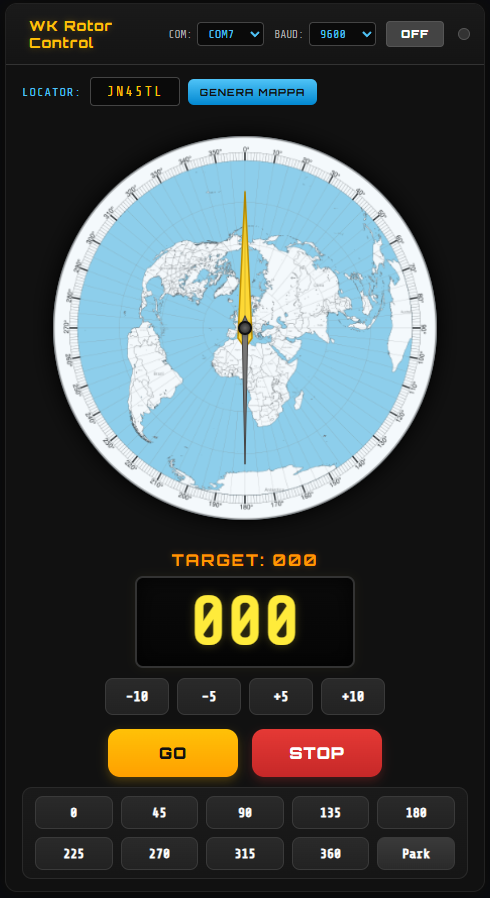
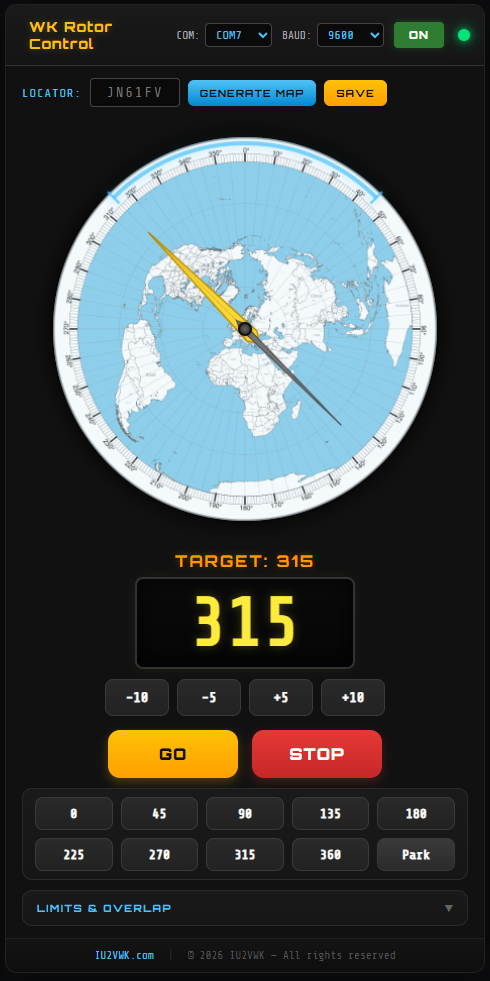
restore wmrotorcontrol.png as main screenshot; overlap.png in release notes

Changed region(s): [[0.0612, 0.0, 0.9796, 0.9978], [0.7041, 0.5924, 0.7347, 0.6548], [0.2755, 0.5924, 0.3061, 0.6548]]

diff --git a/landing/index.html b/landing/index.html
@@ -16,7 +16,7 @@
 <meta property="og:description" content="Free desktop app to control Yaesu G-600 antenna rotors. Azimuth compass, NS6T map generator, GS-232 serial. Windows + macOS.">
 <meta property="og:type" content="website">
 <meta property="og:url" content="https://iu2vwk-ita.github.io/WK-Rotor-Control/">
-<meta property="og:image" content="https://iu2vwk-ita.github.io/WK-Rotor-Control/overlap.png">
+<meta property="og:image" content="https://iu2vwk-ita.github.io/WK-Rotor-Control/wmrotorcontrol.png">
 <meta property="og:image:width" content="1200">
 <meta property="og:image:height" content="630">
 <meta property="og:site_name" content="WK Rotor Control">
@@ -25,7 +25,7 @@
 <meta name="twitter:card" content="summary_large_image">
 <meta name="twitter:title" content="WK Rotor Control — Free Antenna Rotor Controller">
 <meta name="twitter:description" content="Free desktop app for Yaesu G-600 rotor control. Azimuth compass, NS6T maps, GS-232. Windows + macOS.">
-<meta name="twitter:image" content="https://iu2vwk-ita.github.io/WK-Rotor-Control/overlap.png">
+<meta name="twitter:image" content="https://iu2vwk-ita.github.io/WK-Rotor-Control/wmrotorcontrol.png">
 
 <!-- Theme -->
 <meta name="theme-color" content="#0a0c0f">
@@ -521,10 +521,10 @@ a:hover{color:var(--amber)}
   <div class="container">
     <img
       class="hero-map"
-      src="overlap.png"
-      alt="WK Rotor Control showing overlap indicator and sector limits on the compass"
+      src="wmrotorcontrol.png"
+      alt="WK Rotor Control azimuthal map interface with compass overlay"
       width="380"
-      height="782"
+      height="380"
       loading="eager"
       fetchpriority="high"
     >

diff --git a/README.md b/README.md
@@ -5,7 +5,7 @@ Universal antenna rotor controller for **Yaesu G-600** and compatible rotors (GS
 [![Build](https://github.com/iu2vwk-ita/WK-Rotor-Control/actions/workflows/build.yml/badge.svg)](https://github.com/iu2vwk-ita/WK-Rotor-Control/actions/workflows/build.yml)
 [![Release](https://img.shields.io/github/v/release/iu2vwk-ita/WK-Rotor-Control?color=ffb300)](https://github.com/iu2vwk-ita/WK-Rotor-Control/releases/latest)
 
-![screenshot](landing/overlap.png)
+![screenshot](landing/wmrotorcontrol.png)
 
 ---
 